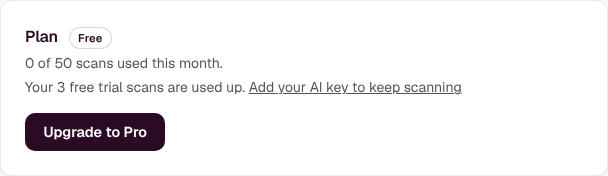
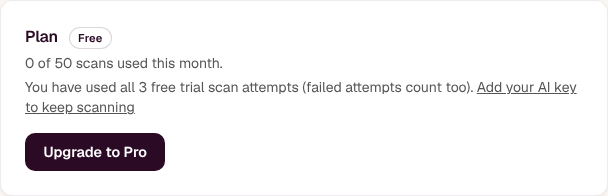
Trial line: unavailable claims nothing about past use; the cap is scan attempts; missing reason fails safe (#410)
Instinct's hold on 9d50a25:
- not_configured is returned before the account's trial history is read (used
  0 / remaining 0 for a new account and one that used its trial alike), so the
  line now says only that free trial scans aren't available here right now.
- account_cap / attempts_cap: 'You have used all 3 free trial scan attempts
  (failed attempts count too)'; counts elsewhere say 'scan attempts'.
- No reason given (not funded, or funded with none left): 'Free trial scans
  can't run right now', never exhausted.
Tests add the previously-used + not_configured negative and the missing-reason
fail-safe; the Settings UI check asserts the unavailable line claims nothing
about past use. Funding, quotas, keys and scans unchanged.

Claude-Session: https://claude.ai/code/session_01CafonXdzjwkFYiMRJWtsKo

diff --git a/web/test/trial-copy.test.ts b/web/test/trial-copy.test.ts
@@ -5,27 +5,36 @@ import { trialCopy, type TrialBlock } from '../lib/trial-copy.ts'
 // The trial blocks GET /api/usage returns (#410), synthetic. cap 3 is TRIAL_SCANS_PER_ACCOUNT.
 const t = (o: Partial<TrialBlock>): TrialBlock => ({ funded: false, remaining: 0, cap: 3, blocked: null, ...o })
 
-test('#410: a fresh account on a deployment without the trial is told it is unavailable, never that it used three', () => {
-  // lib/scan/trial.ts trialStatus with no operator key: funded false, reason not_configured, used 0, remaining 0.
-  const c = trialCopy(t({ blocked: 'not_configured' }))
-  assert.equal(c.state, 'unavailable')
-  assert.equal(c.text, "Free trial scans aren't available here right now, so none have been used.")
-  assert.doesNotMatch(c.text, /used up|of 3/)
+test('#410: without the trial on this deployment, any account is told it is unavailable, never what it used', () => {
+  // lib/scan/trial.ts returns not_configured with used 0 / remaining 0 BEFORE reading trial_scans, so this block is the
+  // same for a brand-new account and one that used trial scans earlier: the copy must claim neither "used up" nor "none".
+  const fresh = trialCopy(t({ blocked: 'not_configured' }))
+  assert.deepEqual([fresh.state, fresh.text], ['unavailable', "Free trial scans aren't available here right now."])
+  const usedBefore = trialCopy(t({ blocked: 'not_configured', remaining: 0 })) // e.g. 3 trial scans run before the key was removed
+  assert.deepEqual(usedBefore, fresh, 'identical input, identical copy')
+  for (const c of [fresh, usedBefore]) assert.doesNotMatch(c.text, /used|none|of 3/)
+})
+
+test('fail-safe: not funded with no reason, or funded with nothing left, says it cannot run (not exhausted)', () => {
+  for (const o of [{ funded: false, remaining: 0, blocked: null }, { funded: false, remaining: 3, blocked: undefined }, { funded: true, remaining: 0, blocked: null }]) {
+    const c = trialCopy(t(o))
+    assert.deepEqual([c.state, c.text], ['unavailable', "Free trial scans can't run right now."], JSON.stringify(o))
+  }
 })
 
 test('each reason has its own state and wording; only real account usage reads as used up', () => {
   const row = (o: Partial<TrialBlock>) => { const c = trialCopy(t(o)); return [c.state, c.text] }
   assert.deepEqual(row({ funded: true, remaining: 2 }), ['available', '2 of 3 free trial scans left.'])
-  assert.deepEqual(row({ blocked: 'account_cap' }), ['exhausted', 'Your 3 free trial scans are used up.'])
-  assert.deepEqual(row({ blocked: 'attempts_cap' }), ['exhausted', 'Your 3 free trial scans are used up.'])
-  assert.deepEqual(row({ blocked: 'account_total_cap', remaining: 1 }), ['exhausted', "Your free trial's allowance is used up. You have used 2 of 3."])
-  assert.deepEqual(row({ blocked: 'ip_throttle', remaining: 3 }), ['throttled', 'Too many free trial scans from your network today. Try again tomorrow. You have used 0 of 3.'])
-  assert.deepEqual(row({ blocked: 'global_daily_cap', remaining: 2 }), ['throttled', "Today's free trial scans are fully booked. Try again tomorrow (it resets at midnight UTC). You have used 1 of 3."])
+  assert.deepEqual(row({ blocked: 'account_cap' }), ['exhausted', 'You have used all 3 free trial scan attempts (failed attempts count too).'])
+  assert.deepEqual(row({ blocked: 'attempts_cap' }), ['exhausted', 'You have used all 3 free trial scan attempts (failed attempts count too).'], 'attempts, not finished scans')
+  assert.deepEqual(row({ blocked: 'account_total_cap', remaining: 1 }), ['exhausted', "Your free trial's allowance is used up. You have used 2 of 3 free trial scan attempts."])
+  assert.deepEqual(row({ blocked: 'ip_throttle', remaining: 3 }), ['throttled', 'Too many free trial scans from your network today. Try again tomorrow. You have used 0 of 3 free trial scan attempts.'])
+  assert.deepEqual(row({ blocked: 'global_daily_cap', remaining: 2 }), ['throttled', "Today's free trial scans are fully booked. Try again tomorrow (it resets at midnight UTC). You have used 1 of 3 free trial scan attempts."])
   assert.deepEqual(row({ blocked: 'google_required', remaining: 3 }), ['ineligible', 'Free trial scans need an account that signs in with Google. Sign in with Google to use them.'])
   assert.deepEqual(row({ blocked: 'domain_used', remaining: 3 }), ['ineligible', "Your company's email domain has already had its free trial."])
   assert.deepEqual(row({ blocked: 'something_new' }), ['unavailable', "Free trial scans can't run right now."])
   for (const b of ['not_configured', 'ip_throttle', 'global_daily_cap', 'google_required', 'domain_used', 'something_new']) {
-    assert.doesNotMatch(trialCopy(t({ blocked: b, remaining: 3 })).text, /used up/, `${b} is not usage`)
+    assert.doesNotMatch(trialCopy(t({ blocked: b, remaining: 3 })).text, /used up|used all/, `${b} is not usage`)
   }
   // Every state offers the one working next step, the account's own key; no operator value is ever in the text.
   for (const b of [null, 'not_configured', 'account_cap', 'ip_throttle', 'global_daily_cap']) {

diff --git a/web/lib/trial-copy.ts b/web/lib/trial-copy.ts
@@ -1,6 +1,7 @@
 // The free-trial line in Settings (#410): what the account's trial can do now and why, from GET /api/usage's trial block
 // ({ funded, remaining, cap, blocked }). Availability and usage are kept apart: a trial that is not set up on this
-// deployment, a network or daily limit, or an eligibility rule is never described as scans the account has used.
+// deployment, a network or daily limit, an eligibility rule or a missing reason is never described as scans the account
+// has used, and an unavailable trial claims nothing about past use either.
 // Pure and client-safe. Nothing here reveals the operator key, budgets or caps beyond the account's own scan count.
 
 export interface TrialBlock { funded: boolean; remaining: number; cap: number; blocked?: string | null }
@@ -10,22 +11,23 @@ export interface TrialCopy { state: TrialCopyState; text: string; next: { label:
 // The one working next step in every state is the account's own key; the link carries that wording, the text the state.
 const key = (label: string) => ({ label, href: '#model-key' })
 const SCAN = key('Add your AI key to scan'), KEEP = key('Add your AI key to keep scanning'), NOW = key('Or add your AI key to scan now')
-const plural = (n: number) => `${n} free trial scan${n === 1 ? '' : 's'}`
 
 export function trialCopy(t: TrialBlock): TrialCopy {
   const used = Math.max(0, t.cap - t.remaining)
-  const usedText = `You have used ${used} of ${t.cap}.`
+  // The cap counts admitted attempts, failed ones included (lib/billing/trial-budget.ts), not finished scans.
+  const usedText = `You have used ${used} of ${t.cap} free trial scan attempts.`
   switch (t.blocked ?? null) {
     case null:
       if (t.funded && t.remaining > 0) return { state: 'available', text: `${t.remaining} of ${t.cap} free trial scans left.`, next: key('Add your AI key for the full plan') }
-      // Funded but nothing left: the account's own scans are what used it.
-      return { state: 'exhausted', text: `Your ${plural(t.cap)} are used up.`, next: KEEP }
+      // Not funded (or nothing left) with no reason given: say it cannot run, never that scans were used.
+      return { state: 'unavailable', text: "Free trial scans can't run right now.", next: SCAN }
     case 'not_configured':
-      // No operator key on this deployment: nothing was used, the trial simply is not offered here.
-      return { state: 'unavailable', text: "Free trial scans aren't available here right now, so none have been used.", next: SCAN }
+      // No operator key on this deployment. The trial is simply not offered here; this reason is returned before the
+      // account's trial history is read, so it says nothing about what this account has or has not used.
+      return { state: 'unavailable', text: "Free trial scans aren't available here right now.", next: SCAN }
     case 'account_cap':
     case 'attempts_cap':
-      return { state: 'exhausted', text: `Your ${plural(t.cap)} are used up.`, next: KEEP }
+      return { state: 'exhausted', text: `You have used all ${t.cap} free trial scan attempts (failed attempts count too).`, next: KEEP }
     case 'account_total_cap':
       return { state: 'exhausted', text: `Your free trial's allowance is used up. ${usedText}`, next: KEEP }
     case 'ip_throttle':
